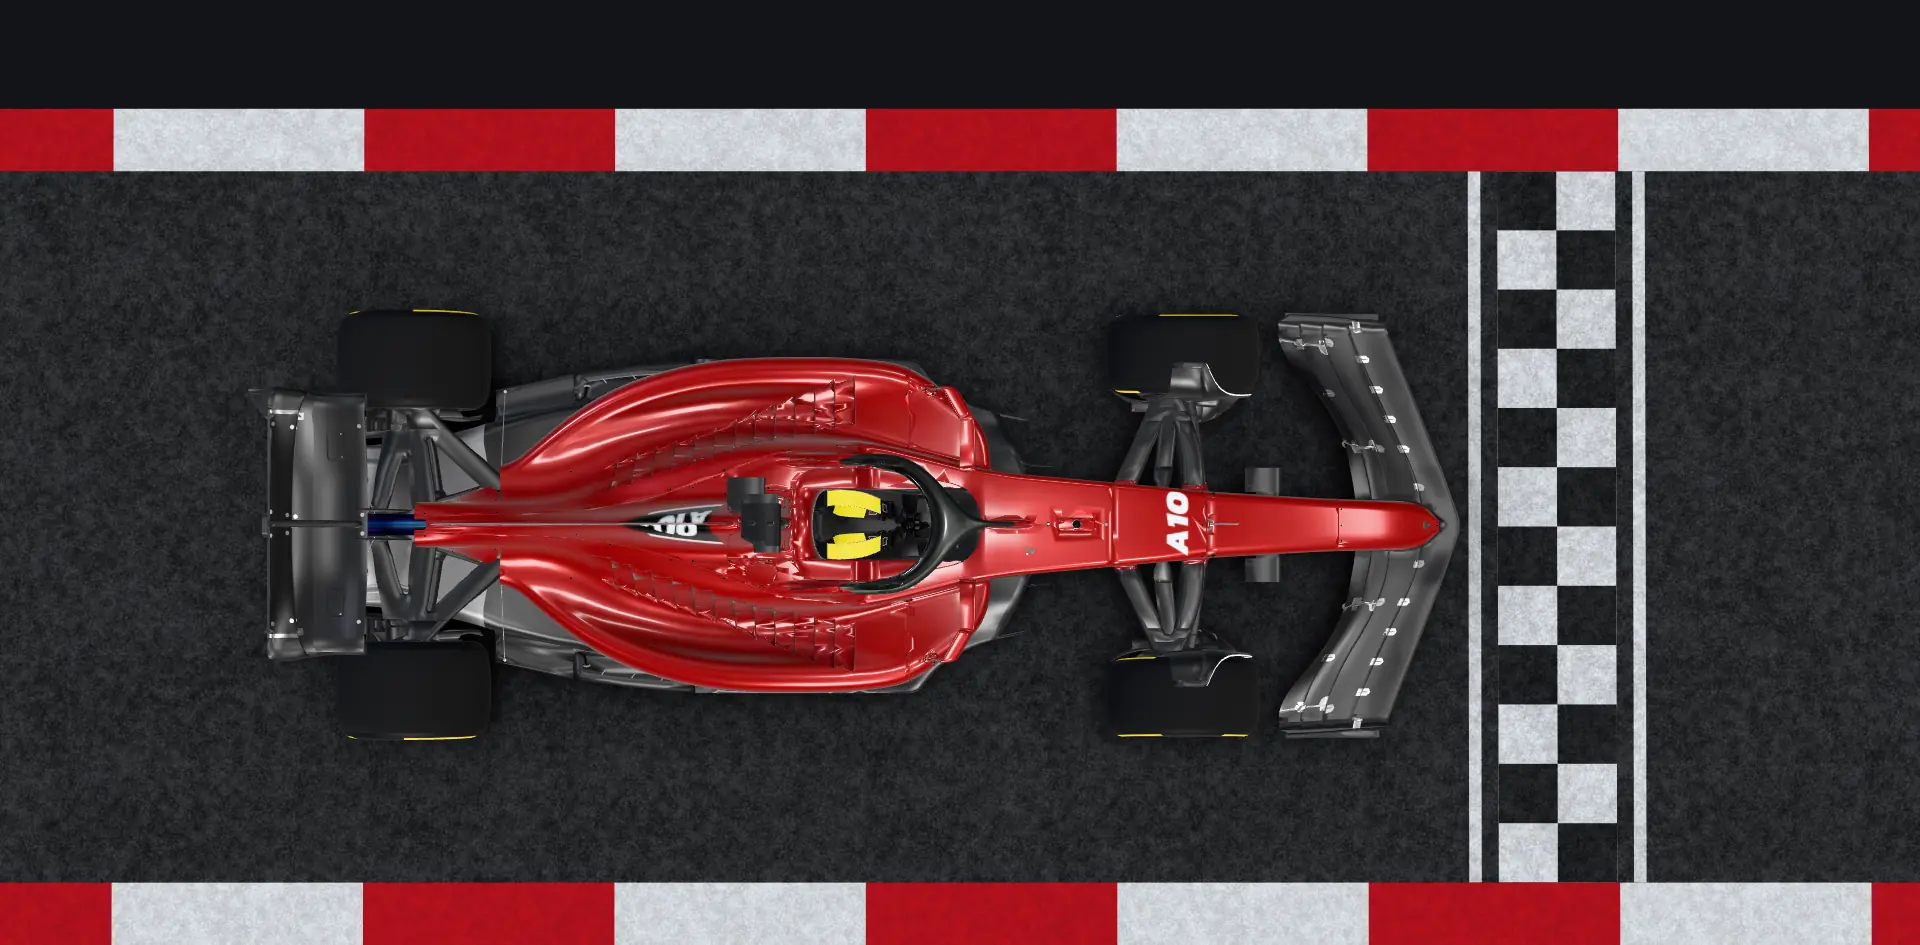
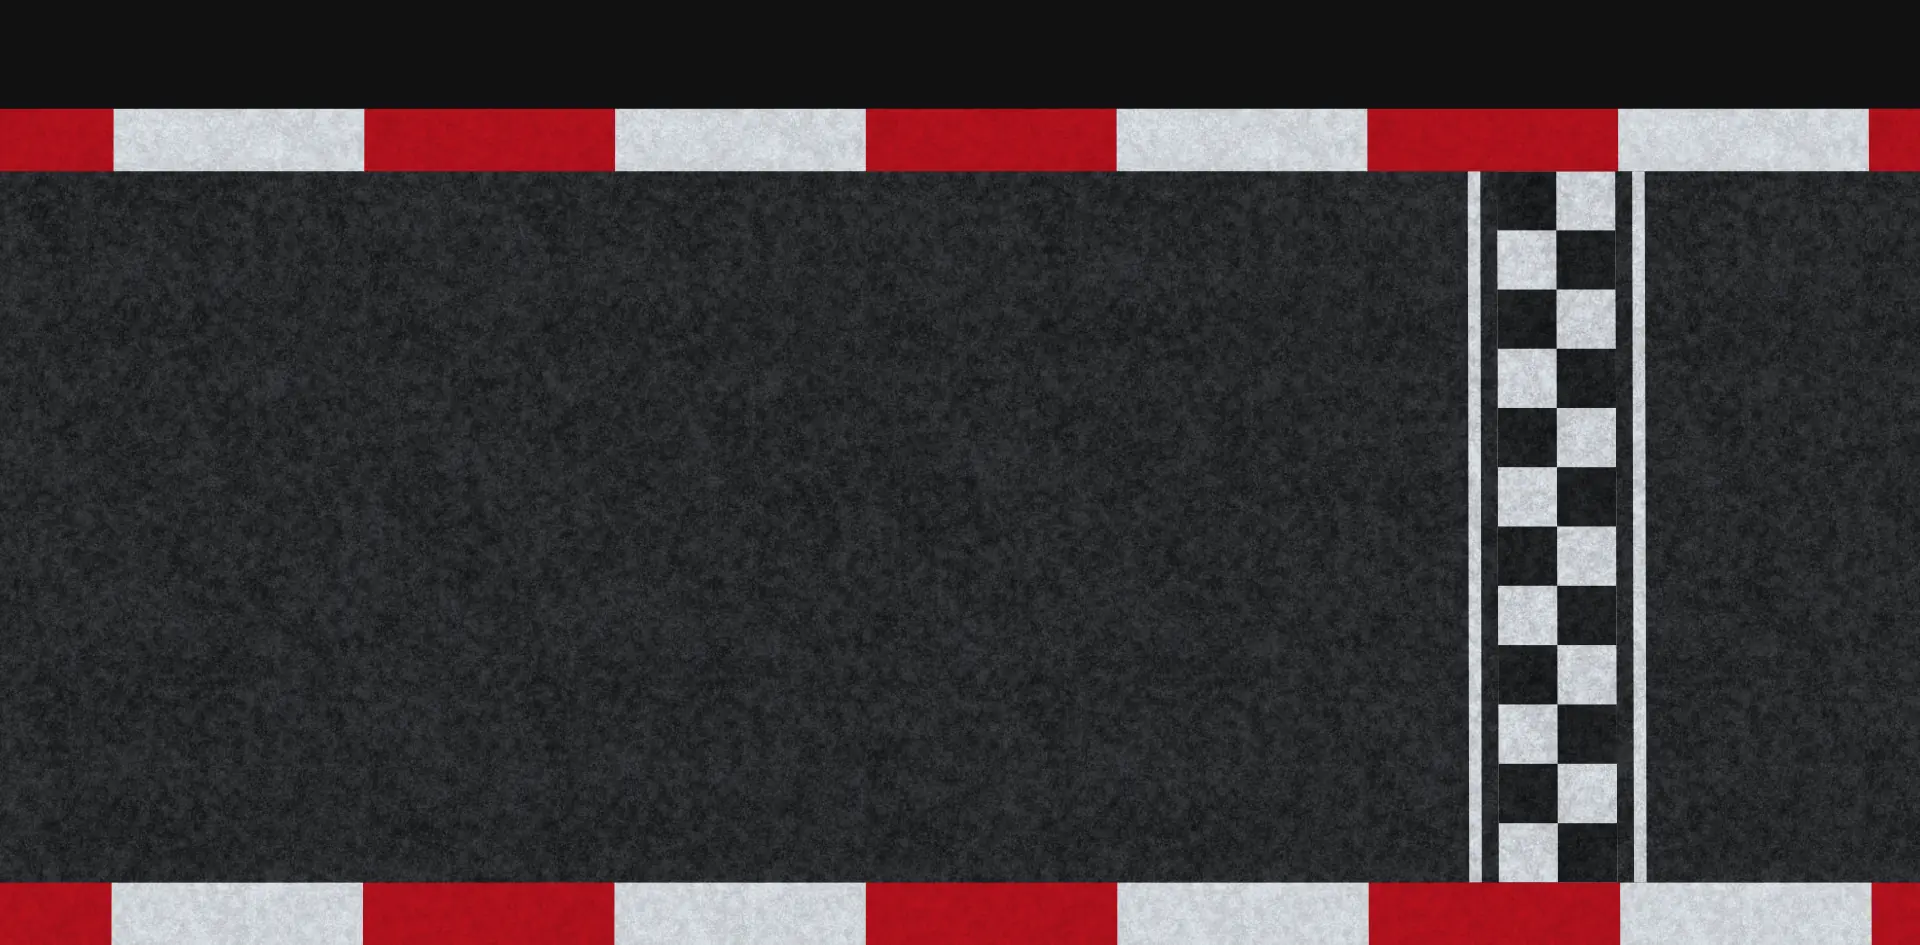
No 3D stage on software rendering; the hero runs on rendered stills there
- A browser with no graphics card behind WebGL (hardware acceleration off, or a blocked driver: "Microsoft Basic
  Render Driver", SwiftShader) drew the scene at about a frame a second. The stage now asks for a context with
  failIfMajorPerformanceCaveat and checks the renderer's name, and stays off there.
- The hero's still is now two: the track (stills/grid.webp) and the car with its shadow on a clear background
  (stills/grid-car.webp). Both stand in while the 3D loads; without a stage they stay, and the car's still makes
  the run off the screen at lights out. Measured without a graphics card: a steady 60 fps through the page.

Changed region(s): [[0.125, 0.3069, 0.7812, 0.7979], [0.5938, 0.3069, 0.6562, 0.3376]]

diff --git a/components/Hero.tsx b/components/Hero.tsx
@@ -9,11 +9,14 @@ import s from "./Hero.module.css";
 const LINES = ["ENGINEERING", "EXPLORATION", "GRAND PRIX"];
 
 /**
- * public/stills/grid.webp is the 3D grid shot rendered once (1920x945, the page hidden). It is laid exactly where
- * the live car will be, so the first screen is whole while three.js and the model are still on their way.
- * These are that render's own numbers: its size, where the car sat in it and its scale.
+ * The 3D grid shot rendered once, at 1920x945 with the page hidden, as two stills in public/stills: grid.webp is
+ * the track, grid-car.webp the car and its shadow alone. They are laid exactly where the live scene will be, so the
+ * first screen is whole while three.js and the model are on their way, and they are the whole hero where the 3D
+ * stage cannot run (no graphics card behind the browser): the car still drives off at lights out.
+ * STILL: that render's size, where the car's origin sat in it and its scale. CAR: the car still's place in it.
  */
 const STILL = { w: 1920, h: 945, x: 865.84, y: 526.5, ppm: 209.25 };
+const CAR = { x: 207, y: 228, w: 1326 };
 
 /**
  * First screen: the car from overhead, as big as the screen (across a wide one, up an upright one), with the
@@ -43,7 +46,7 @@ export default function Hero({ children }: { children: ReactNode }) {
         const hero = q("[data-hero]")[0] as HTMLElement;
         const inner = q("[data-inner]")[0] as HTMLElement;
         const title = q("h1")[0] as HTMLElement;
-        const still = q("[data-still]")[0] as HTMLElement;
+        const [still, sprite] = q("[data-still]") as HTMLElement[];
         const range = document.createRange();
         const place = () => {
           const w = window.innerWidth;
@@ -64,7 +67,10 @@ export default function Hero({ children }: { children: ReactNode }) {
           still.style.width = `${(STILL.w * k).toFixed(1)}px`;
           still.style.left = `${(stage.gridX - STILL.x * k).toFixed(1)}px`;
           still.style.top = `${(stage.gridY - top - STILL.y * k).toFixed(1)}px`;
-          still.dataset.still = up ? "off" : "on";
+          sprite.style.width = `${(CAR.w * k).toFixed(1)}px`;
+          sprite.style.left = `${(stage.gridX + (CAR.x - STILL.x) * k).toFixed(1)}px`;
+          sprite.style.top = `${(stage.gridY - top + (CAR.y - STILL.y) * k).toFixed(1)}px`;
+          still.dataset.still = sprite.dataset.still = up ? "off" : "on";
           let right = 0;
           words.forEach((el) => {
             range.selectNodeContents(el);
@@ -110,6 +116,8 @@ export default function Hero({ children }: { children: ReactNode }) {
         start.fromTo(q("[data-go]"), { opacity: 0 }, { opacity: 1, duration: 0.05 }, "<");
         // lights out and away
         start.fromTo(stage, { launch: 0 }, { launch: 1, duration: 0.62 }, "<");
+        // the car's still makes the same run (it is only on screen when the live car is not)
+        start.fromTo(sprite, { x: 0 }, { x: () => window.innerWidth - stage.gridX + 3.4 * stage.gridPpm, duration: 0.62, ease: "power2.in" }, "<");
         start.to({}, { duration: 0.06 });
 
         return () => {
@@ -119,8 +127,10 @@ export default function Hero({ children }: { children: ReactNode }) {
           stage.launch = 0;
           stage.gridX = stage.gridY = stage.gridPpm = stage.gridUp = 0;
           delete root.dataset.grid;
-          still.removeAttribute("style");
-          still.dataset.still = "";
+          for (const img of [still, sprite]) {
+            img.removeAttribute("style");
+            img.dataset.still = "";
+          }
           hero.style.removeProperty("--text-end");
         };
       });
@@ -134,6 +144,8 @@ export default function Hero({ children }: { children: ReactNode }) {
       <section className={s.hero} aria-labelledby="hero-title" data-hero>
         {/* eslint-disable-next-line @next/next/no-img-element */}
         <img className={s.still} data-still="" src={`${BASE}/stills/grid.webp`} width={STILL.w} height={STILL.h} alt="" decoding="async" />
+        {/* eslint-disable-next-line @next/next/no-img-element */}
+        <img className={s.still} data-still="" src={`${BASE}/stills/grid-car.webp`} width={CAR.w} height={597} alt="" decoding="async" />
         <div className={s.scrim} data-scrim aria-hidden="true" />
 
         {/* start gantry: a beam across the track with five lights hanging from it */}

diff --git a/components/stage/scene.ts b/components/stage/scene.ts
@@ -59,9 +59,20 @@ export async function createScene(
   ticker: { add: (fn: () => void) => void; remove: (fn: () => void) => void },
   faces: WheelFaces,
 ): Promise<Scene | null> {
+  // WebGL without a graphics card behind it (hardware acceleration off, or a blocked driver) is drawn by the CPU, at
+  // about a frame a second for this scene: then the flat layout with its rendered stills is the better page. Asked
+  // of a throwaway canvas first, so a refusal is quiet.
+  {
+    const gl = document.createElement("canvas").getContext("webgl2", { failIfMajorPerformanceCaveat: true });
+    if (!gl) return null;
+    const info = gl.getExtension("WEBGL_debug_renderer_info");
+    const name = info ? String(gl.getParameter(info.UNMASKED_RENDERER_WEBGL)) : "";
+    gl.getExtension("WEBGL_lose_context")?.loseContext();
+    if (/basic render|swiftshader|llvmpipe|software/i.test(name)) return null;
+  }
   let renderer: T.WebGLRenderer;
   try {
-    renderer = new THREE.WebGLRenderer({ antialias: true, alpha: true, powerPreference: "high-performance" });
+    renderer = new THREE.WebGLRenderer({ antialias: true, alpha: true, powerPreference: "high-performance", failIfMajorPerformanceCaveat: true });
   } catch {
     return null; // no WebGL: the page keeps its flat layout
   }

diff --git a/components/Hero.module.css b/components/Hero.module.css
@@ -13,8 +13,8 @@
    type above 4.5:1 even over the palest part of the car, the kerb or the start line. --text-end is measured by
    Hero.tsx: the end of the longest line when the car lies across the screen (the shade runs left to right and
    clears over the front wing), the foot of the headline when the car runs up it (the shade runs top to bottom). */
-/* the rendered still of the car on the grid: shown from the moment the page can place it until the live 3D stage
-   is up, then faded away over it */
+/* the rendered stills of the grid and of the car on it: shown from the moment the page can place them until the
+   live 3D stage is up, then faded away over it; where there is no stage they stay, and the car's still drives off */
 .still { position: absolute; z-index: 0; max-width: none; height: auto; opacity: 0; visibility: hidden; pointer-events: none; }
 .still[data-still="on"] { opacity: 1; visibility: visible; }
 :global(html[data-stage="on"]) .still[data-still="on"] { opacity: 0; visibility: hidden; transition: opacity 320ms var(--ease), visibility 0s 320ms; }

diff --git a/app/layout.tsx b/app/layout.tsx
@@ -29,6 +29,7 @@ export default function RootLayout({ children }: LayoutProps<"/">) {
         <script dangerouslySetInnerHTML={{ __html: motionScript }} />
         {/* the hero's still and the 3D files start downloading with the page, not when the script that needs them runs */}
         <link rel="preload" as="image" href={`${BASE}/stills/grid.webp`} media="(min-width: 1024px) and (min-aspect-ratio: 1/1)" fetchPriority="high" />
+        <link rel="preload" as="image" href={`${BASE}/stills/grid-car.webp`} media="(min-width: 1024px) and (min-aspect-ratio: 1/1)" fetchPriority="high" />
         <link rel="preload" as="fetch" href={`${BASE}/models/car.glb`} crossOrigin="anonymous" />
         <link rel="preload" as="image" href={`${BASE}/models/asphalt.webp`} crossOrigin="anonymous" />
         <link rel="preload" as="image" href={`${BASE}/models/car-shadow.png`} crossOrigin="anonymous" />

diff --git a/tools/models/README.md b/tools/models/README.md
@@ -32,5 +32,6 @@ shader (`components/stage/ground.ts`) samples: three scales of noise and a scatt
 
 **Shadow and stills**: `car-shadow.png` is the car's footprint from above, blurred. `public/stills/car-apart.webp` is a
 frame of the exploded view (the page hidden, cropped to the car), shown where the 3D stage is not running.
-`public/stills/grid.webp` is the hero's overhead shot at 1920×945 with the page hidden; `components/Hero.tsx` lays it
-where the live car will be until the stage is up, and holds the numbers that go with it (re-shoot both together).
+`public/stills/grid.webp` (the track) and `grid-car.webp` (the car and its shadow, clear background) are the hero's
+overhead shot at 1920×945 with the page hidden; `components/Hero.tsx` lays them where the live scene will be until the
+stage is up, keeps them where it cannot run, and holds the numbers that go with them (re-shoot all together).
